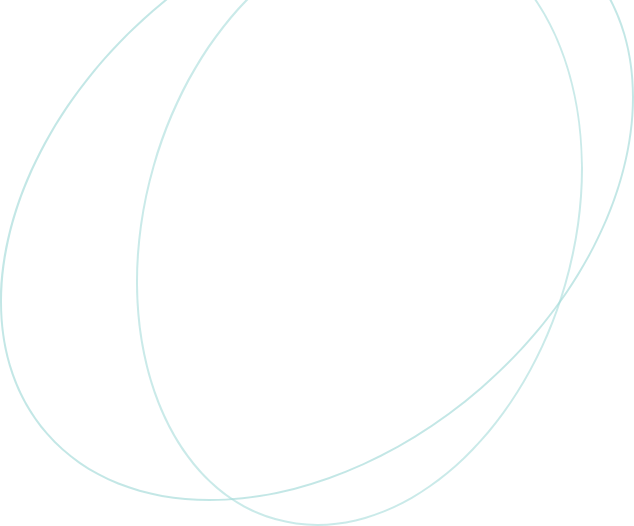
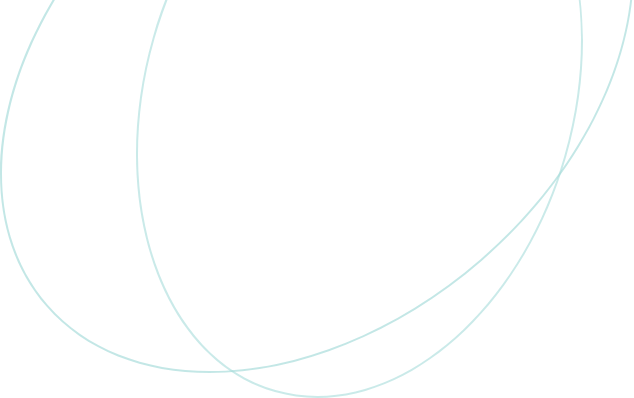
Design changes

diff --git a/src/Components/Home/index.js b/src/Components/Home/index.js
@@ -9,12 +9,12 @@ import Values from "./Values";
 function Home() {
     return (
         <>
-            <section data-aos="fade-right" className="bg-white pt-40 pb-80">
+            <section data-aos="fade-right" className="bg-white pt-40 pb-80 relative z-20">
                 <BoxedWidthContainer>
                     <Intro />
                 </BoxedWidthContainer>
             </section>
-            <section className="light-green-bg-color pt-40 pb-40 relative">
+            <section className="light-green-bg-color pt-40 pb-40 custom-overflow curve-right relative z-20">
                 <BoxedWidthContainer>
                     <Values />
                     <Feedback />
@@ -26,7 +26,7 @@ function Home() {
                     <AboutUs />
                 </BoxedWidthContainer>
             </section>
-            <section className="dark-green-bg-color pt-40 pb-40 relative">
+            <section className="dark-green-bg-color pt-40 pb-40 relative custom-overflow z-20 curve-left curve-right curve-left-center curve-right-bottom">
                 <BoxedWidthContainer>
                     <Consultation />
                     <Blog />

diff --git a/src/index.css b/src/index.css
@@ -1251,15 +1251,21 @@ video {
   top: -24px;
 }
 
-.curve::after
+.curve-left::after
 {
   content: url('./images/curve-line.png');
   position: absolute;
   left:-25%;
-  top:20%;
+  top:-15%;
+  z-index: -1;
 }
 
-.curve::before
+.curve-left-center::after
+{
+  top:15%;
+}
+
+.curve-right::before
 {
   content: url('./images/curve-line.png');
   position: absolute;
@@ -1267,13 +1273,26 @@ video {
   top:20%;
 }
 
-/* .curve-left::before
+.curve-right-bottom::before
+{
+  top:auto;
+  bottom: 0;
+}
+
+/* .curve-top-half-left::before
 {
   content: url('./images/curve-left.png');
   position: absolute;
   left:-25%;
   top:20%;
 } */
+
+
+.custom-overflow
+{
+  overflow-x: clip;
+  overflow-y: visible;
+}
 
 /* Media Css */
 
@@ -1297,6 +1316,7 @@ video {
   .font-72{font-size: 54px;}
   .health-care-explore span img,.about-us-img img{max-width: 100%;margin: 0 auto 30px;}
   .testimonial-carousel .item p.content::after,.testimonial-carousel .item p.content::before{display: none;}
+  .curve-left::after,.curve-right::before{display: none;}
 }
 
 @media(max-width:768px)

diff --git a/src/Components/Home/Values.js b/src/Components/Home/Values.js
@@ -51,7 +51,7 @@ function Values() {
                     </Link>
                 </div>
                 <div data-aos="fade-up" data-aos-duration="2000" className="value-box rounded-xl relative shadow-xl overflow-hidden px-9 py-12 bg-white">
-                    <span className="vector absolute top-3 right-0">
+                    <span className="vector absolute top-3 right-4">
                         <img
                             src="/images/value-box-ico-3.png"
                             alt=""

diff --git a/src/Components/Common/Header.js b/src/Components/Common/Header.js
@@ -17,7 +17,7 @@ const Header = ({ handleToggle }) => {
         <>
             <div
                 id="header"
-                className="fixed top-0 w-full z-10"
+                className="fixed top-0 w-full z-50"
             >
                 <div className="container mx-auto px-4 sm:px-6">
                     <div className="flex justify-between items-center py-4 md:space-x-10">
